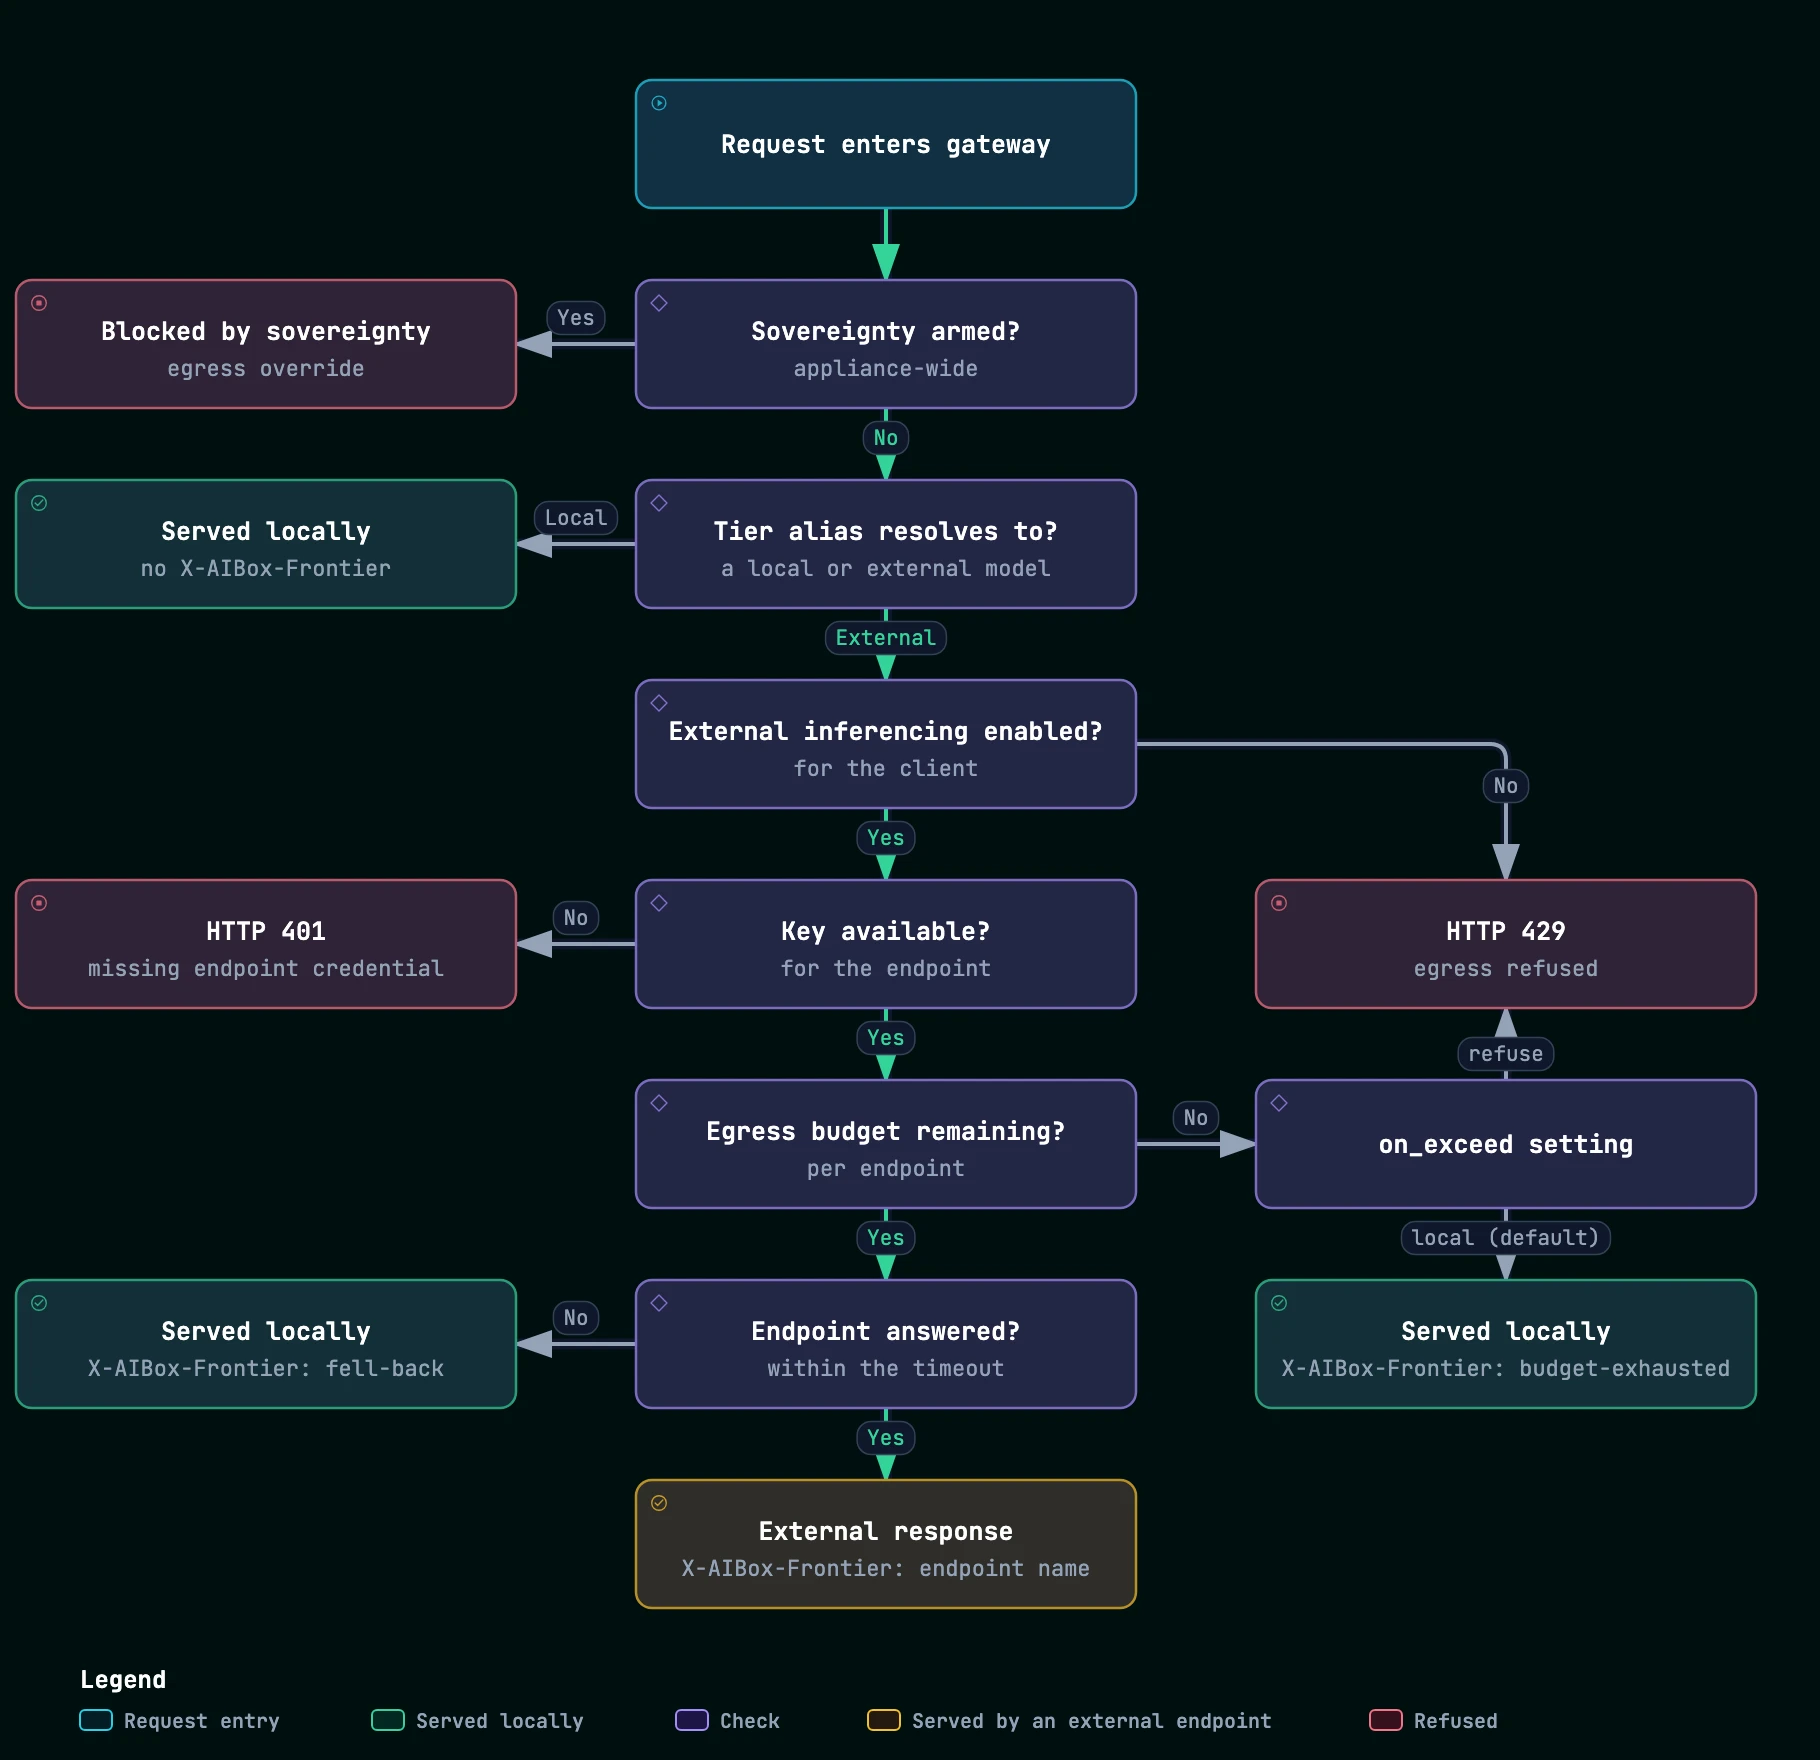
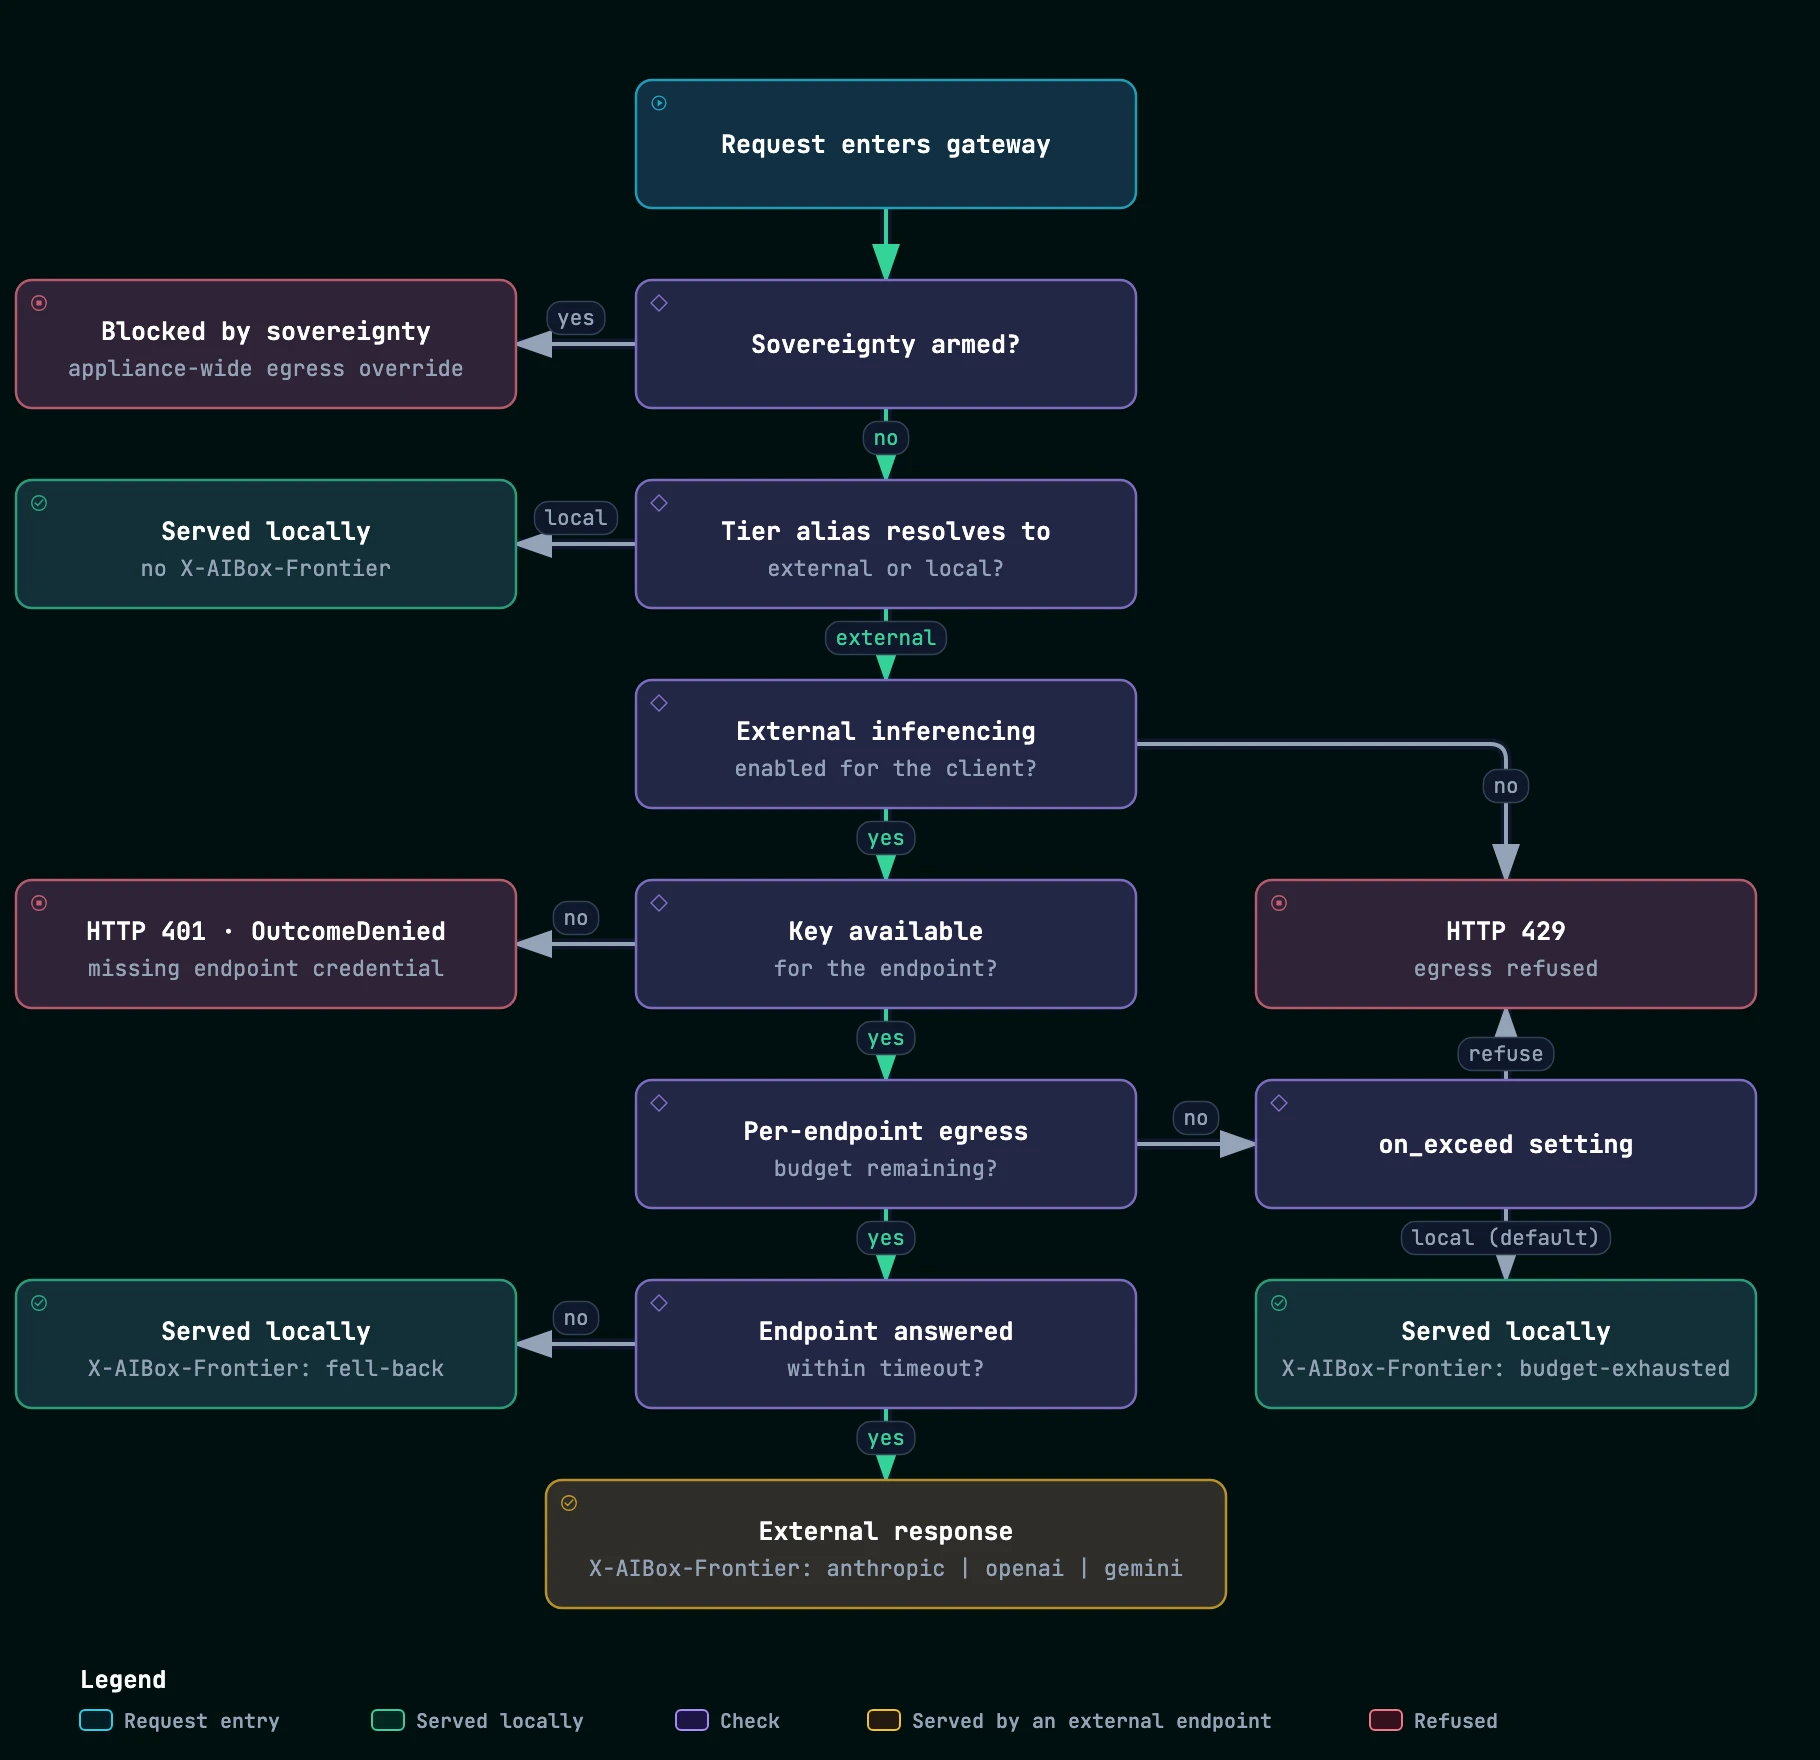
docs: match diagram wording to the Mermaid source
Use the Mermaid node and edge text word for word.

Widen the bottom box so its header line fits.

Keep the original alt text and Vale comments on the page.

diff --git a/docs/products/paletteai-inference-launchpad/explanation/frontier-providers.md b/docs/products/paletteai-inference-launchpad/explanation/frontier-providers.md
@@ -120,16 +120,20 @@ to one of seven terminal outcomes: blocked by sovereignty, local by alias, egres
 the `fell-back` marker after the endpoint itself did not answer, local fallback with the `budget-exhausted` marker, an
 HTTP 401 for a missing endpoint credential, or an HTTP 429 when egress is refused outright.
 
+<!-- vale Vale.Spelling = NO -->
+
 <p>
   <ThemedImage
     className="markdown-image"
-    alt="Flowchart of the external egress decision, with the main path in green. A request passes checks for sovereignty, the tier alias, external inferencing, the key, the egress budget, and the endpoint's answer before it gets an external response. Each branch to the side ends with the request served locally or refused, and an exhausted budget reaches the on_exceed setting first."
+    alt="Egress decision flowchart showing a request entering the gateway, first checking whether sovereignty is armed appliance-wide, then resolving the tier alias to an external or local model, then checking whether external inferencing is enabled for the client, whether a key is available for the endpoint, whether the per-endpoint egress budget remains, whether the endpoint answered, and the on_exceed setting, arriving at one of seven outcomes: blocked by sovereignty, served locally by alias, an external response, served locally with X-AIBox-Frontier fell-back, served locally with X-AIBox-Frontier budget-exhausted, HTTP 401 OutcomeDenied for a missing endpoint credential, or HTTP 429 when egress is refused."
     sources={{
       light: "/assets/docs/images/frontier-providers_egress-decision.webp",
       dark: "/assets/docs/images/frontier-providers_egress-decision-dark.webp",
     }}
   />
 </p>
+
+<!-- vale Vale.Spelling = YES -->
 
 Three subtleties in the flow are worth calling out. Sovereignty is checked first and overrides every downstream lever; a
 request never reaches the tier decision on a sovereignty-armed appliance. A missing endpoint credential is an
